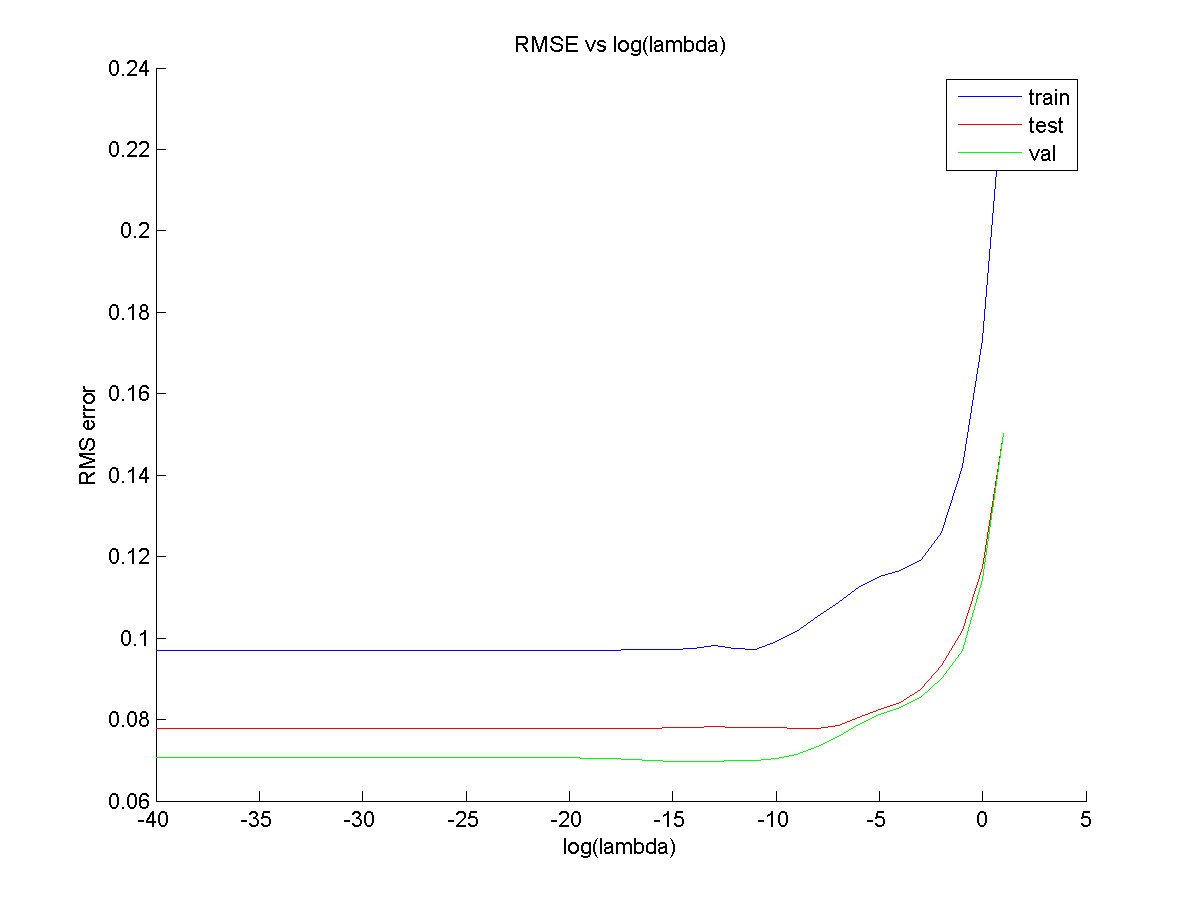
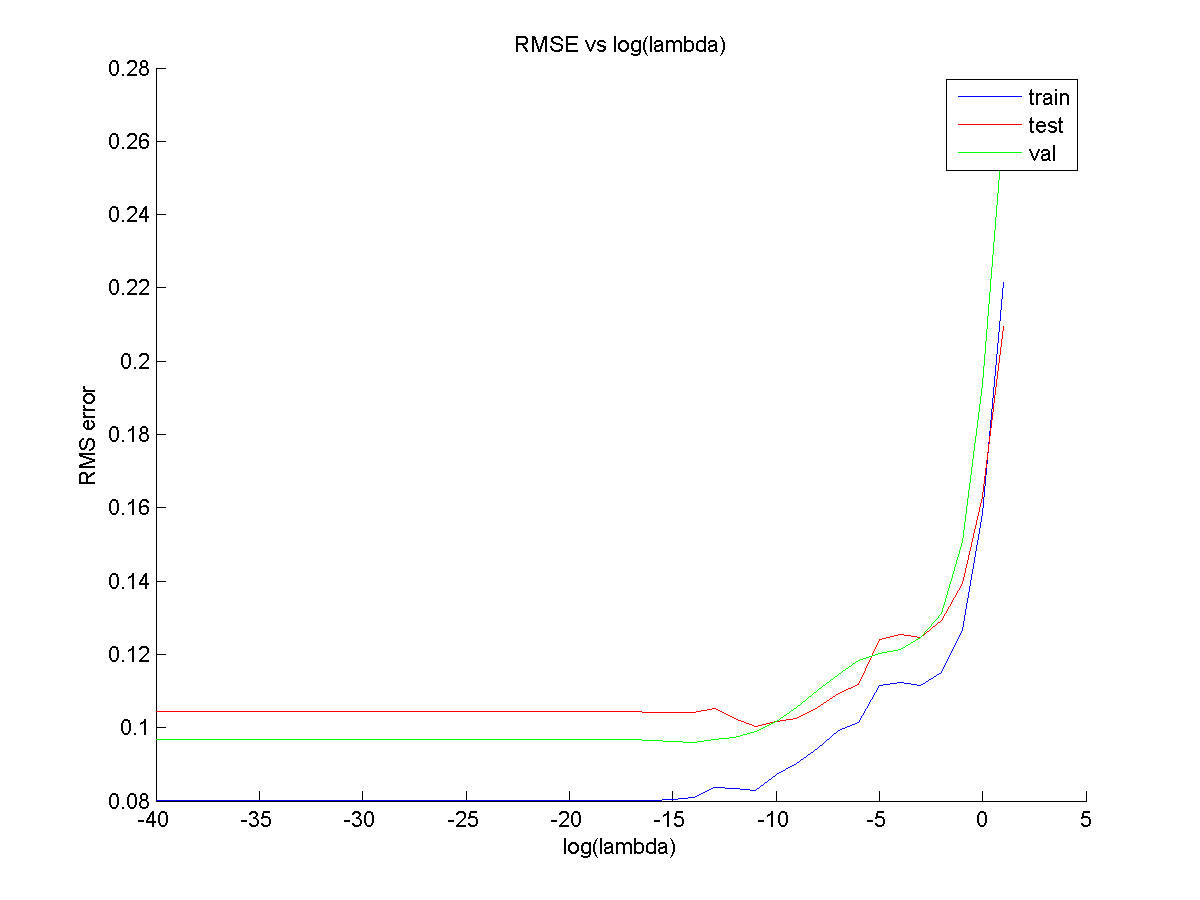
same

diff --git a/Assignment_1/Code/rmserr_Q1_lambda.m b/Assignment_1/Code/rmserr_Q1_lambda.m
@@ -1,14 +1,11 @@
 function [rms_train,rms_test,rms_val] = rmserr_Q1_lambda(train,test,val,M_values,lambda)
 
  
-N = size(train);
-N = N(1);
-N
+N = size(val,1);
 x = M_values(1);
 rms_val = 10000;
 size(M_values,2)
 for i = 1:size(M_values,2)
-    i
     coeffs = curve_fit(train,M_values(i),lambda); 
     y1 = val(:,2);
     y2 = polyval(coeffs,val(:,1));
@@ -16,20 +13,21 @@ for i = 1:size(M_values,2)
     if sqrt(err/N) < rms_val
         rms_val = sqrt(err/N);
         x = M_values(i);
-        x
     end
 end
 %x
+
 coeffs = curve_fit(train,x,lambda); 
 %lambda
 %coeffs
+N = size(train,1);
 y1 = train(:,2);
 y2 = polyval(coeffs,train(:,1));
 %y2
 [err,n] = sumsqr(y2-y1);
 rms_train = sqrt(err/N);
 
-
+N = size(test,1);
 y1 = test(:,2);
 y2 = polyval(coeffs,test(:,1));
 [err,n] = sumsqr(y2-y1);

diff --git a/Assignment_1/Code/rmserr_Q1_M.m b/Assignment_1/Code/rmserr_Q1_M.m
@@ -1,12 +1,9 @@
 function [rms_train,rms_test,rms_val] = rmserr_Q1_M(train,test,val,M,lambda_values)
-N = size(train);
-N = N(1);
-N
+N = size(val,1);
 x = lambda_values(1);
 rms_val = 10000;
 size(lambda_values,2)
 for i = 1:size(lambda_values,2)
-    i
     coeffs = curve_fit(train,M,lambda_values(i)); 
     y1 = val(:,2);
     y2 = polyval(coeffs,val(:,1));
@@ -14,17 +11,17 @@ for i = 1:size(lambda_values,2)
     if sqrt(err/N) < rms_val
         rms_val = sqrt(err/N);
         x = lambda_values(i);
-        x
     end
 end
 coeffs = curve_fit(train,M,x); 
 
+N = size(train,1);
 y1 = train(:,2);
 y2 = polyval(coeffs,train(:,1));
 [err,n] = sumsqr(y2-y1);
 rms_train = sqrt(err/N);
 
-
+N = size(test,1);
 y1 = test(:,2);
 y2 = polyval(coeffs,test(:,1));
 [err,n] = sumsqr(y2-y1);
